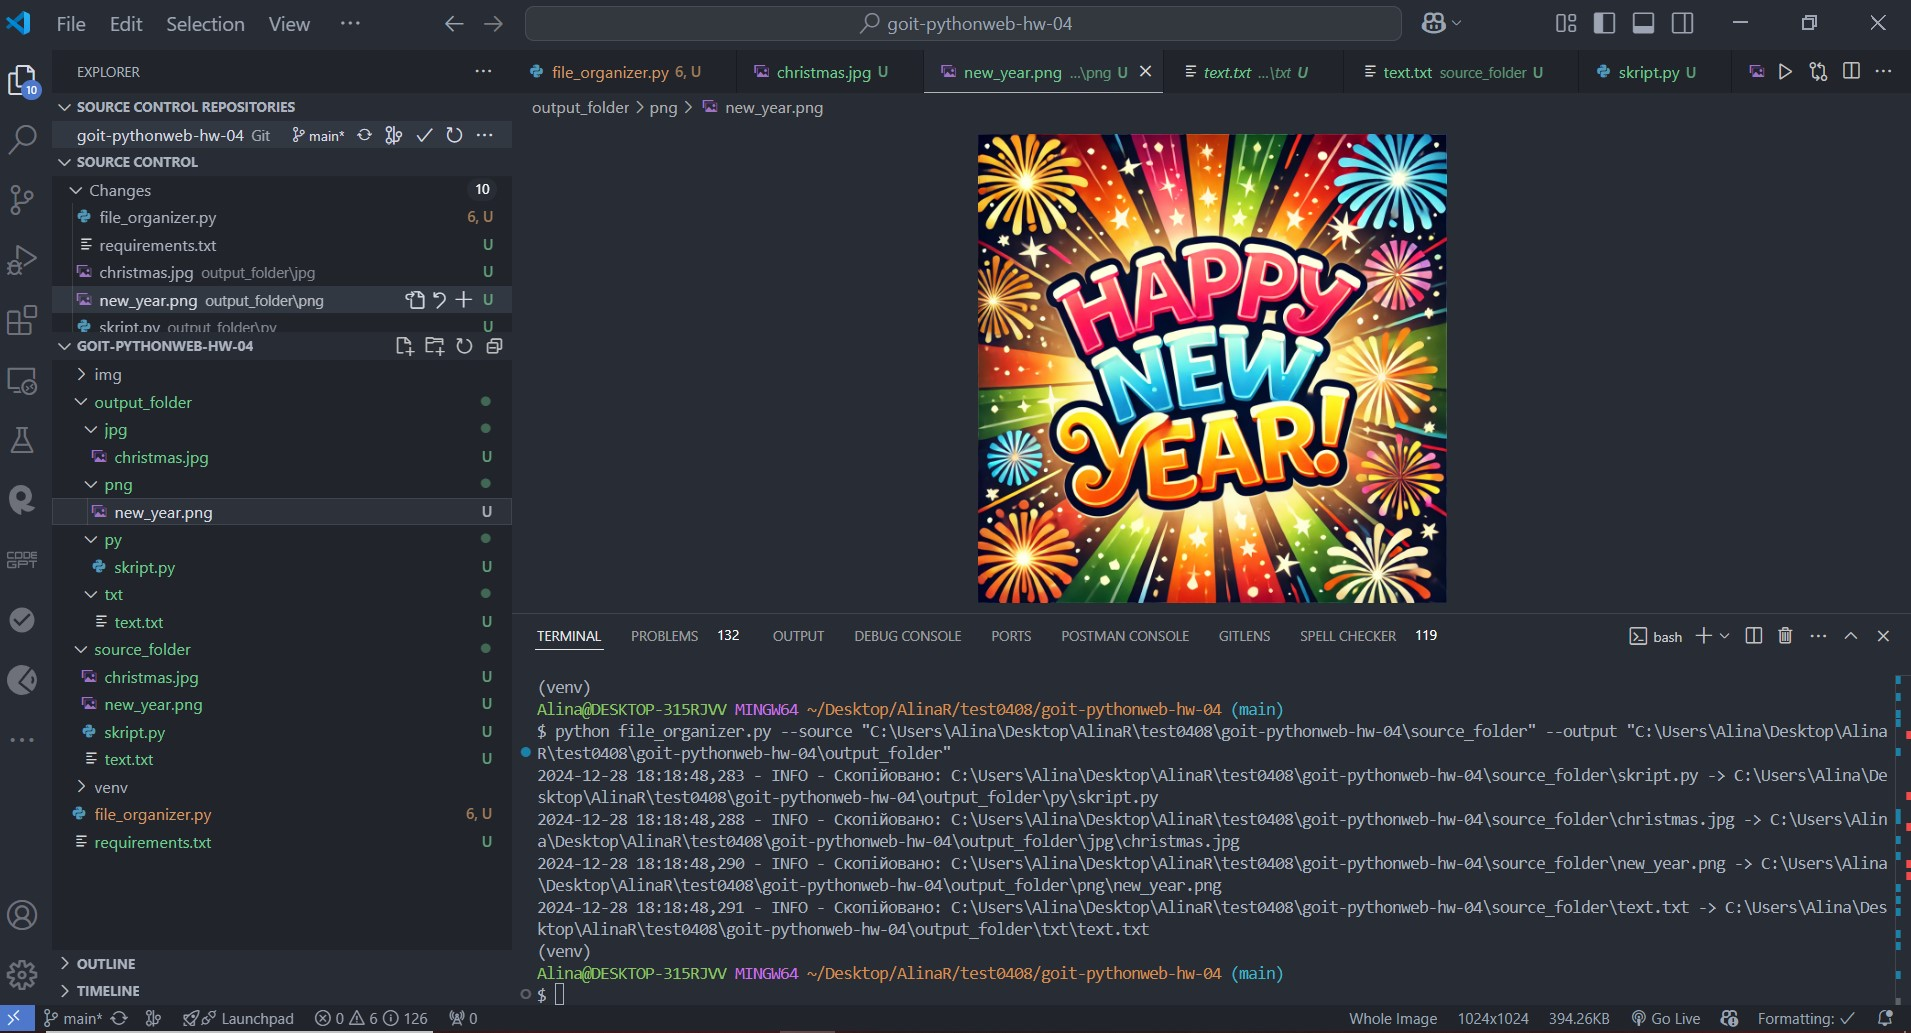
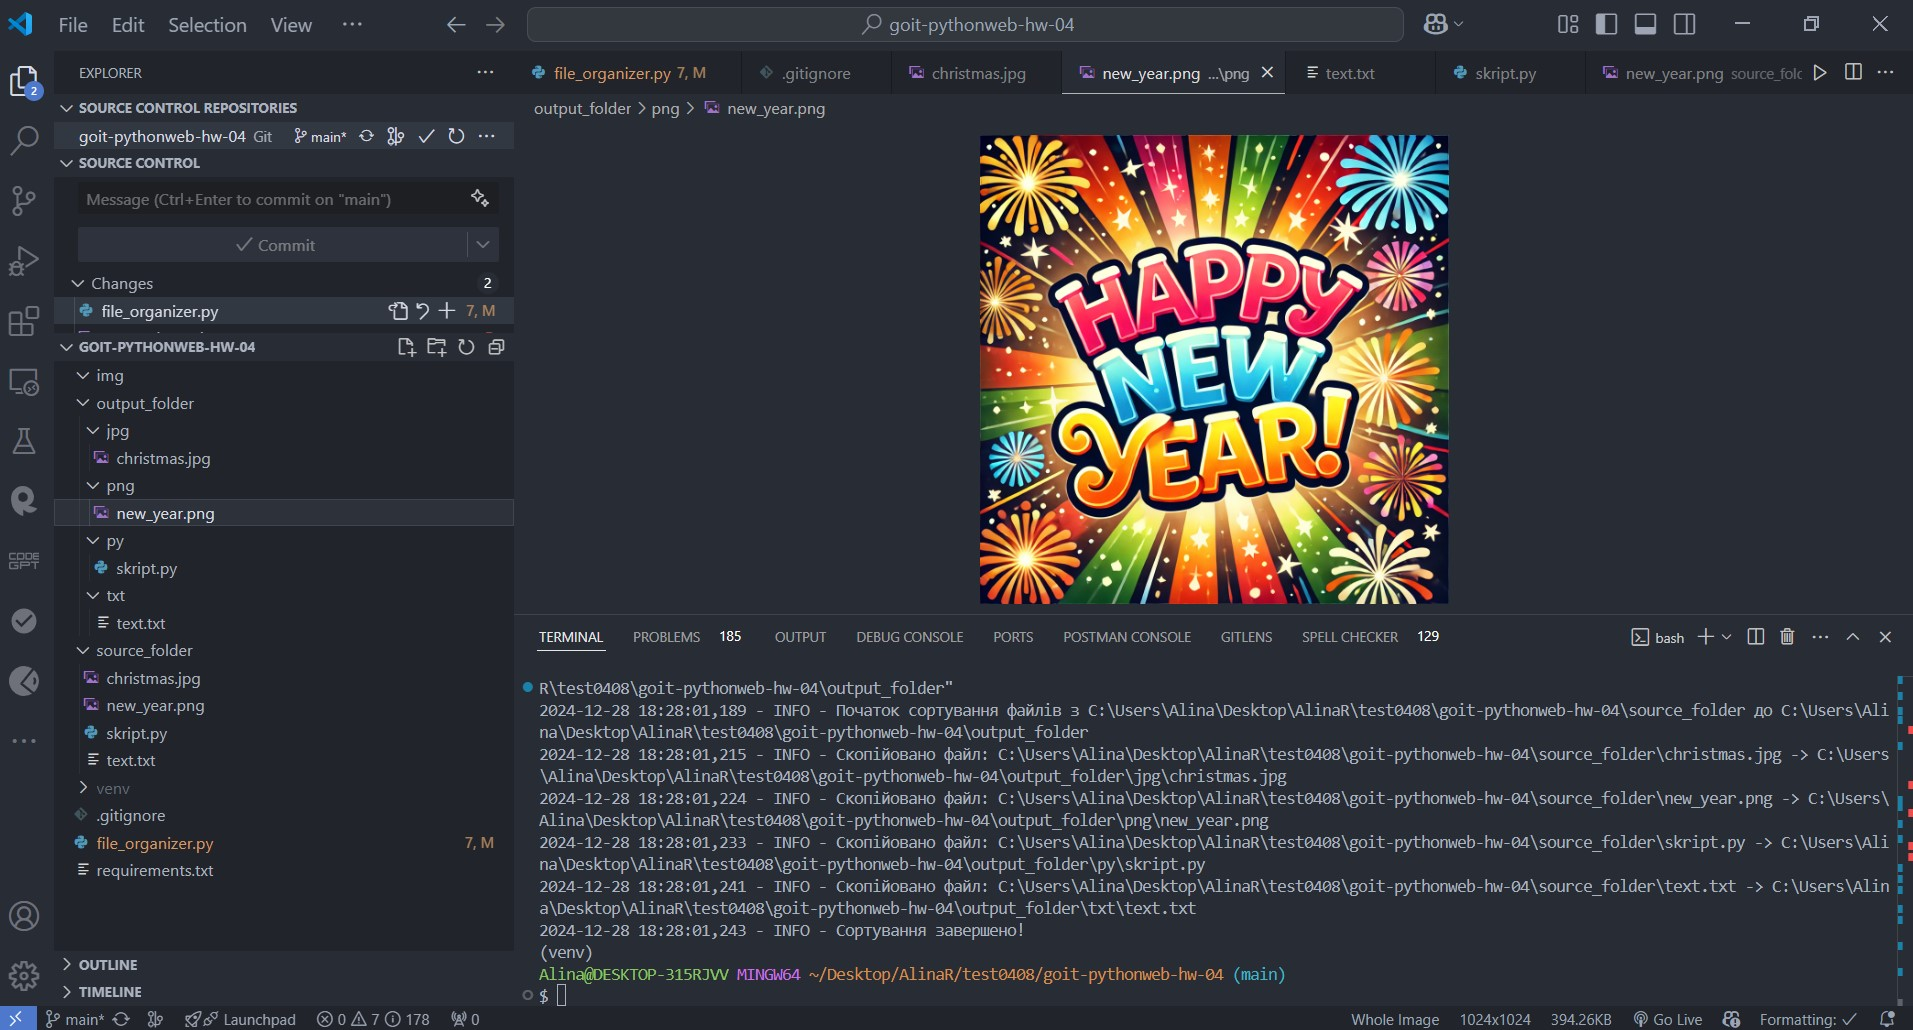
update file

diff --git a/file_organizer.py b/file_organizer.py
@@ -1,46 +1,50 @@
 import asyncio
-import shutil
 from pathlib import Path
 import argparse
 import logging
+import shutil
 
+# Налаштування логування
 logging.basicConfig(
-    level=logging.INFO, 
+    level=logging.INFO,
     format="%(asctime)s - %(levelname)s - %(message)s"
 )
 
-async def process_file(file: Path, output_folder: Path):
-    """Асинхронне копіювання файлу до відповідної підпапки."""
+async def copy_file(file: Path, output_folder: Path):
+    """Асинхронне копіювання файлу у відповідну папку."""
     try:
         extension = file.suffix[1:].lower() or "unknown"
         target_folder = output_folder / extension
         target_folder.mkdir(parents=True, exist_ok=True)
         await asyncio.to_thread(shutil.copy2, file, target_folder / file.name)
-        logging.info(f"Скопійовано: {file} -> {target_folder / file.name}")
+        logging.info(f"Скопійовано файл: {file} -> {target_folder / file.name}")
     except Exception as e:
         logging.error(f"Помилка копіювання {file}: {e}")
 
-async def process_folder(source_folder: Path, output_folder: Path):
-    """Асинхронне читання папки та обробка файлів."""
+async def read_folder(source_folder: Path, output_folder: Path):
+    """Рекурсивне читання папки та обробка файлів."""
     try:
-        tasks = []
         for item in await asyncio.to_thread(lambda: list(source_folder.iterdir())):
             if item.is_file():
-                tasks.append(process_file(item, output_folder))
+                await copy_file(item, output_folder)
             elif item.is_dir():
-                tasks.append(process_folder(item, output_folder))
-        await asyncio.gather(*tasks)
+                await read_folder(item, output_folder)
     except Exception as e:
-        logging.error(f"Помилка обробки {source_folder}: {e}")
+        logging.error(f"Помилка обробки папки {source_folder}: {e}")
 
 async def main(source: str, output: str):
+    """Головна функція."""
     source_path = Path(source)
     output_path = Path(output)
+
     if not source_path.exists() or not source_path.is_dir():
         logging.error(f"Вихідна папка {source} не існує або це не директорія.")
         return
+
     output_path.mkdir(parents=True, exist_ok=True)
-    await process_folder(source_path, output_path)
+    logging.info(f"Початок сортування файлів з {source_path} до {output_path}")
+    await read_folder(source_path, output_path)
+    logging.info("Сортування завершено!")
 
 if __name__ == "__main__":
     parser = argparse.ArgumentParser(description="Асинхронний сортувальник файлів")
